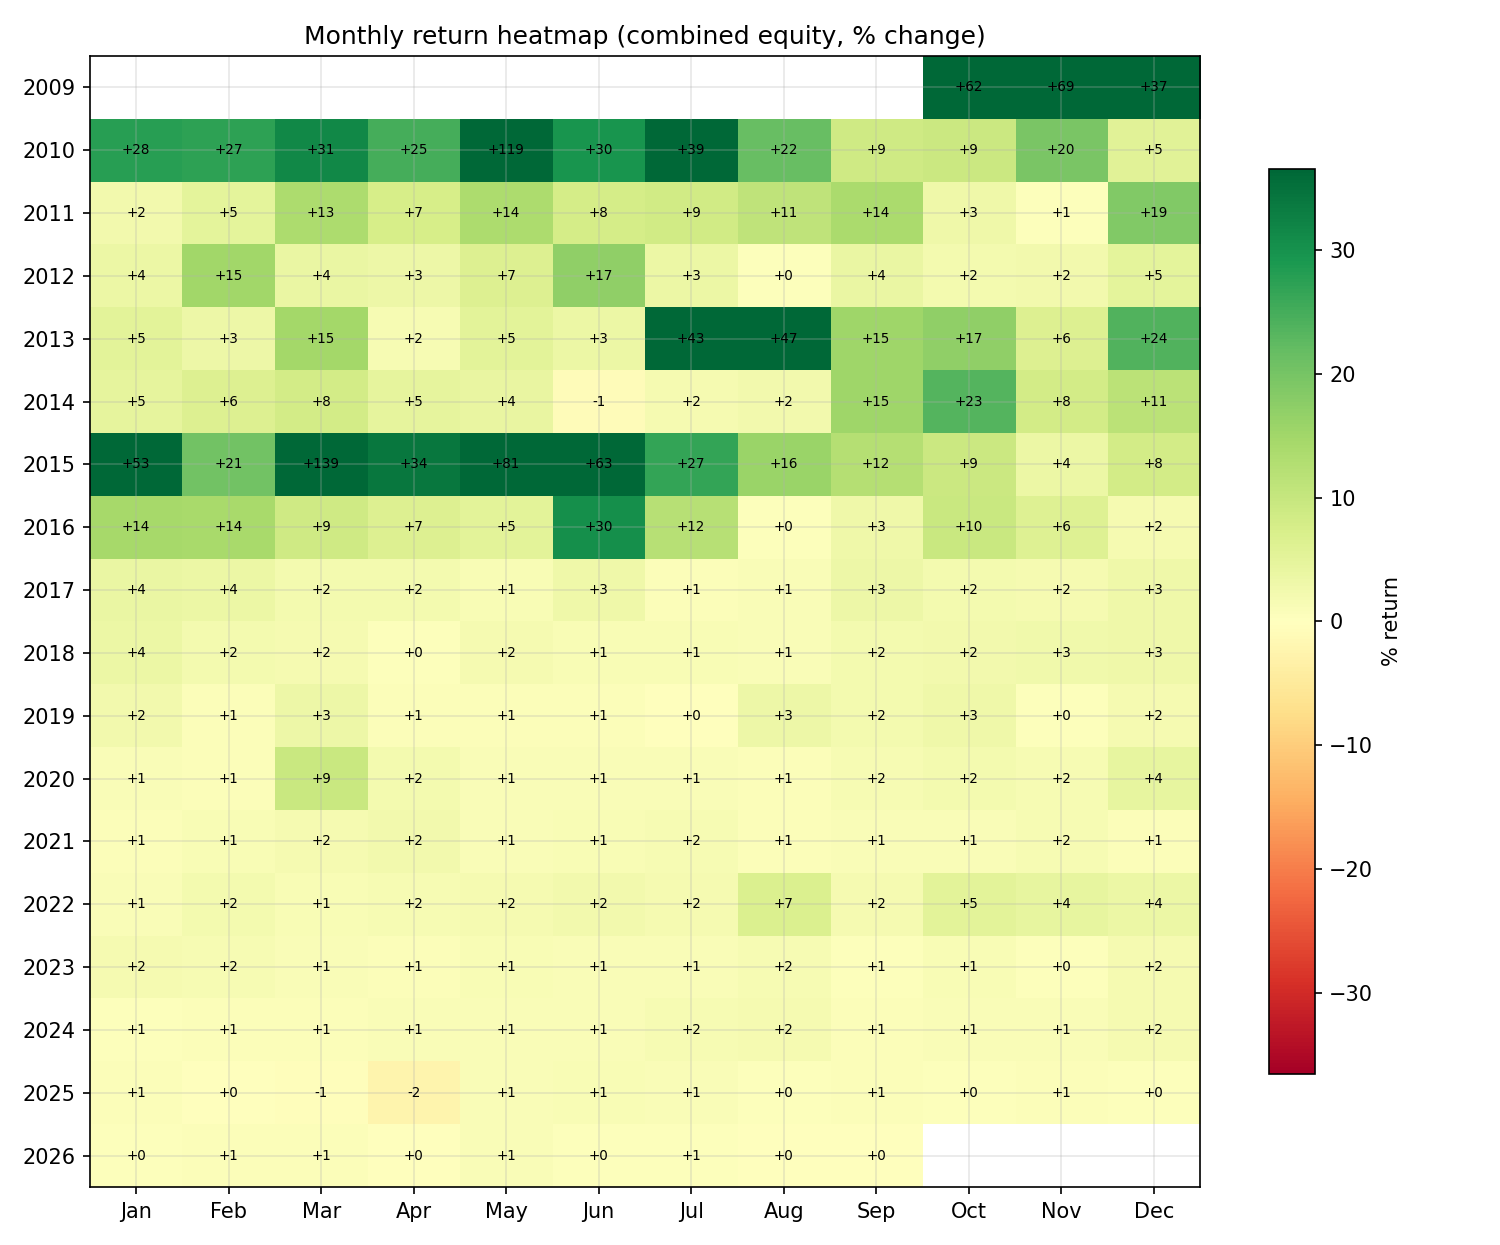
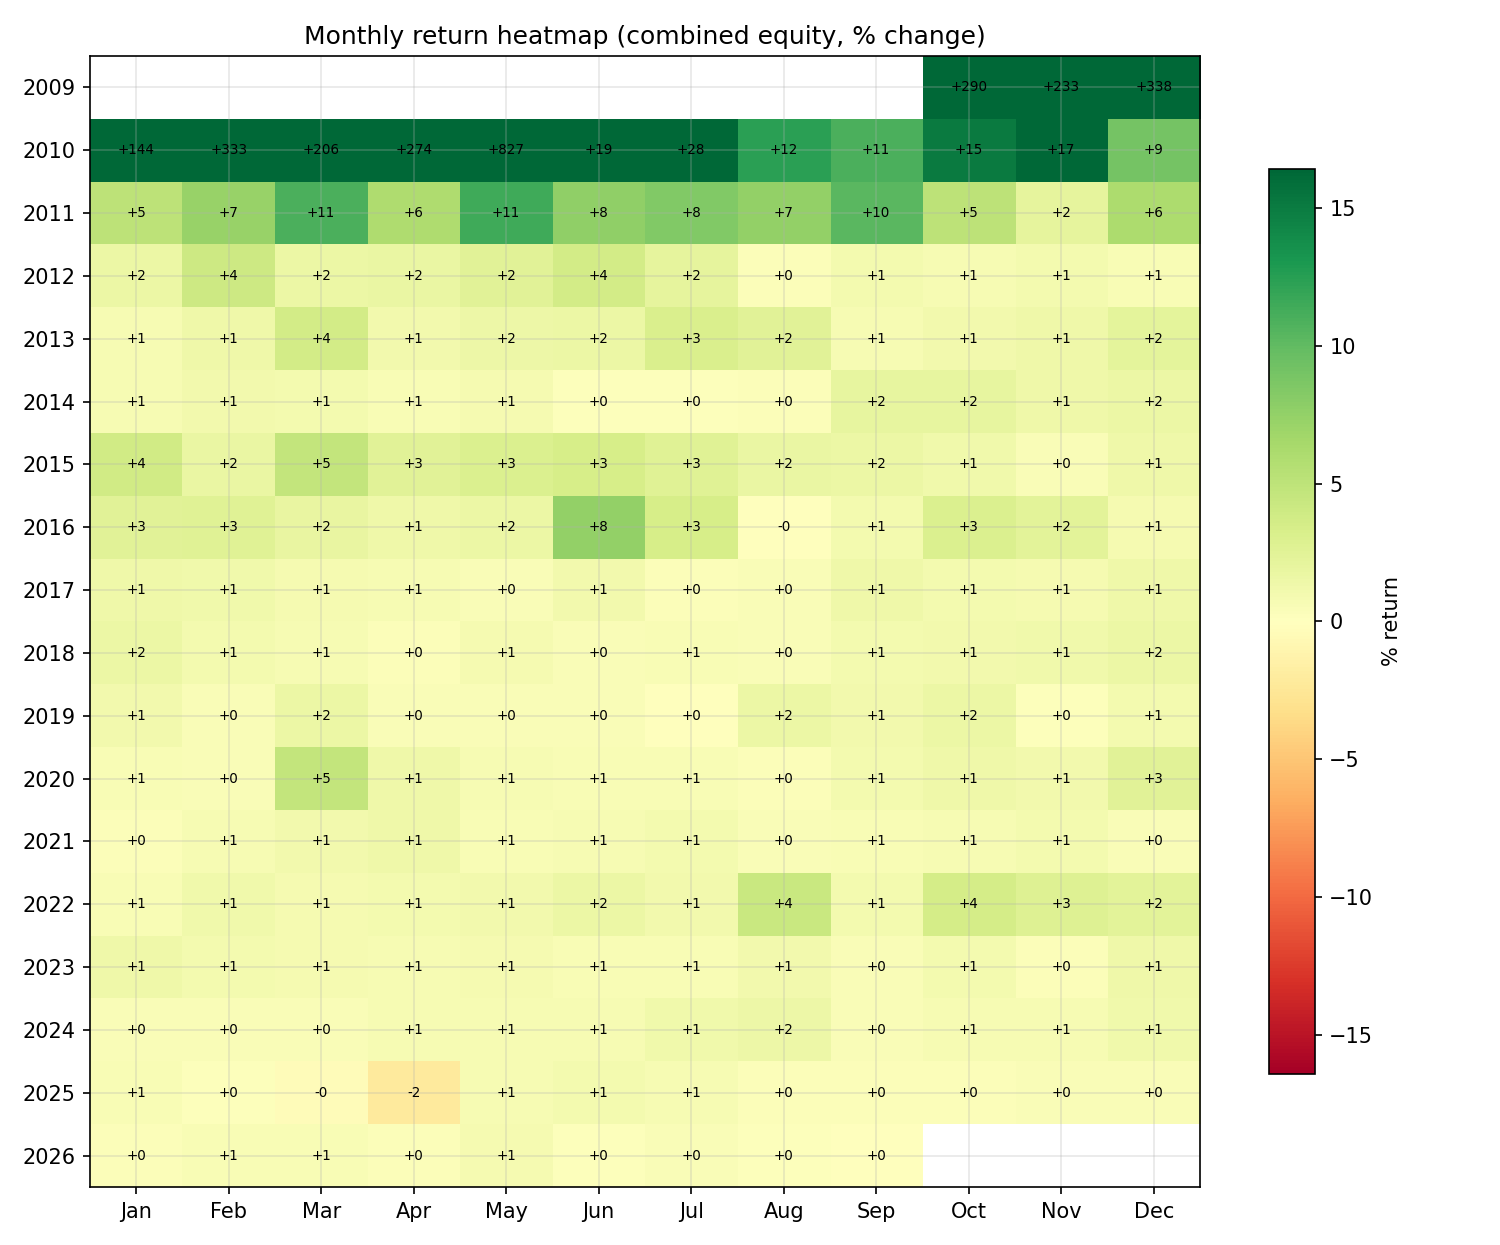
Fix floating-point margin-comparison bug in two-account simulator
simulate_two_account and run_monte_carlo_two_account's acceptance check
(`if margin <= avail`) had no floating-point tolerance. Position sizing is
frequently leverage-capped by construction, computing `margin` via a
divide-then-multiply-then-divide round trip through max_leverage that lands
it within ~1e-14 of `avail` -- sometimes a hair above purely from float
rounding, causing the unguarded `<=` to spuriously reject fully-affordable
trades. This is common, not a rare edge case, since sizing is designed to
sit right at the leverage ceiling.

Found via an independent cross-check: a separately-built reimplementation
of the same entry/spread convention (for an unrelated 2026 walk-forward
analysis) produced a 36x larger ending balance than this project's own
simulator on an identical trade set. Tracing both simulators in lockstep on
the same trades isolated the divergence to this one comparison; the other
implementation already guarded it with a 1e-9-relative tolerance, which
this fix now matches.

Regenerated the Shallow-Entry Fade report against the fix: accepted trades
rise 120,170 -> 146,301 (+21.7%), win rate and profit factor are
essentially unchanged (PF 1.188 -> 1.194, confirming the edge itself isn't
an artifact of this bug), but max drawdown worsens (-11.5% -> -20.2%) and
dollar totals shift accordingly. 100% of years and all three independent
thirds of history remain individually profitable; 98.5% of months
(201/204) unchanged.

diff --git a/dtfxStrategy/research_scripts/goal79_two_account_portfolio.py b/dtfxStrategy/research_scripts/goal79_two_account_portfolio.py
@@ -217,8 +217,14 @@ def simulate_two_account(trades, risk_pct=RISK_PCT, start_per_side=START_PER_SID
         _, risk_dollars, margin = position_size_and_margin(
             instrument[i], sizing_base, entry_price[i], stop_risk[i], risk_pct, max_leverage, cap)
         avail = min(equity[side], cap) - margin_used[side]
+        # A position sized to use ALL available margin computes `margin` via a
+        # divide-then-multiply-then-divide round trip through max_leverage that lands it
+        # within ~1e-14 of `avail`, sometimes a hair above due to float rounding alone --
+        # an unguarded `<=` here spuriously rejects a fully affordable trade about half
+        # the time this (common, since sizing is often leverage-capped) case occurs.
+        tolerance = 1e-9 * max(1.0, abs(avail))
 
-        if margin <= avail and open_count[side] < 1:
+        if margin <= avail + tolerance and open_count[side] < 1:
             accepted[i] = True
             heapq.heappush(heap, (exit_time[i], risk_dollars, margin, net_r[i], side))
             margin_used[side] += margin
@@ -310,8 +316,9 @@ def run_monte_carlo_two_account(trades, n_sims, target, max_trades=100_000, seed
                     instrument[idx], sizing_base, entry_price[idx], stop_risk[idx], RISK_PCT,
                     MAX_LEVERAGE, ACCOUNT_CAP)
                 avail = min(equity[side], ACCOUNT_CAP) - margin_used[side]
+                tolerance = 1e-9 * max(1.0, abs(avail))  # see simulate_two_account's comment
 
-                if margin <= avail and open_count[side] < 1:
+                if margin <= avail + tolerance and open_count[side] < 1:
                     heapq.heappush(heap, (xt, risk_dollars, margin, net_r[idx], side))
                     margin_used[side] += margin
                     open_count[side] += 1

diff --git a/dtfxStrategy/research_results/goal84_shallow_entry_fade/SHALLOW_ENTRY_FADE.md b/dtfxStrategy/research_results/goal84_shallow_entry_fade/SHALLOW_ENTRY_FADE.md
@@ -2,23 +2,32 @@
 
 **Full backtest report, 2009-09-25 → 2026-09-03 (17.0 years), EURUSD / GBPUSD / USDJPY / EURGBP, 1-minute bars.**
 
-> **Correction (2026-09-23):** the first version of this report priced spread by
+> **Correction #2 (2026-09-23):** an independent review found a floating-point bug in
+> `goal79_two_account_portfolio.py::simulate_two_account`'s margin-acceptance check
+> (`if margin <= avail`, no tolerance). Position sizing is frequently leverage-capped by
+> construction, which computes `margin` via a divide→multiply→divide round-trip through
+> `max_leverage` that lands it within ~1e-14 of `avail` — sometimes a hair *above* it purely
+> from floating-point rounding. The unguarded `<=` spuriously rejected fully affordable
+> trades whenever that happened. Fixed by adding `tolerance = 1e-9 * max(1, abs(avail))` to
+> both `simulate_two_account` and `run_monte_carlo_two_account`. **Accepted trades rise from
+> 120,170 to 146,301 (+21.7%); win rate and profit factor are essentially unchanged (PF
+> 1.188→1.194) since the added trades are statistically similar to the ones that already
+> passed — but max drawdown worsens (−11.5%→−20.2%) and dollar totals shift accordingly.**
+> All numbers below are post-fix. See §2 and §5.
+>
+> **Correction #1 (2026-09-23):** the first version of this report priced spread by
 > repricing `entry_price` up to one spread depending on whether the touch bar was "deep"
-> enough, then defined "1R" off that shifted entry. That model is asymmetric — a stop-out
-> is tautologically `-1.0 * eff_risk` regardless of how entry was repriced, so **losing
-> trades never actually paid any spread cost**, only the reward side ever shrank. Per
-> direct specification, this version instead holds entry/stop/target at the exact raw
-> zone levels (no repricing at all) and subtracts exactly one spread's worth of R-cost
-> from every trade's raw result, win or loss alike. This is a materially different, more
-> conservative, and more standard cost convention. **Profit factor drops from 1.366 to
-> 1.188, and the "100% of months profitable" claim no longer holds** (3 of 204 months are
-> now negative). All numbers below are the corrected ones. See §2 and §5.
+> enough, then defined "1R" off that shifted entry — asymmetric, since a stop-out is
+> tautologically `-1.0 * eff_risk` regardless of entry repricing, so losing trades never
+> paid any spread cost. Replaced with: entry/stop/target held at the exact raw zone levels,
+> one spread's worth of R-cost subtracted from every trade's raw result, win or loss alike.
 
 Generated by [`goal84_shallow_entry_fade_report.py`](../../research_scripts/goal84_shallow_entry_fade_report.py),
-which reuses — unchanged — the exact zone-detection and two-account $ simulator already
-audited this session, and builds trades from
+which builds trades from
 [`goal85_shallow_entry_fade_flatcost.py`](../../research_scripts/goal85_shallow_entry_fade_flatcost.py)
-(the corrected spread-cost convention). Reproduce with:
+(corrected spread convention) and simulates them with the now-epsilon-fixed
+[`goal79_two_account_portfolio.py`](../../research_scripts/goal79_two_account_portfolio.py).
+Reproduce with:
 
 ```bash
 cd dtfxStrategy/research_scripts && python3 goal84_shallow_entry_fade_report.py
@@ -71,32 +80,41 @@ cap (see §5, Limitations).
 
 **Entry-price bug (fixed in `goal82`).** An earlier resolver (`goal77`–`goal81`) repriced
 the entry's spread cost using the zone's own *un-traded* approach direction instead of the
-side *actually* being traded once inverted — this artificially shrank the losing side's
-risk distance and grew the winning side's reward distance simultaneously. Fixed by
-computing spread-shift direction from the actually-traded side, verified with a worked
-numerical example and a full 17-year, 4-pair rerun.
+side *actually* being traded once inverted. Fixed by computing spread-shift direction from
+the actually-traded side.
 
-**Spread-cost convention (fixed in `goal85`, this report).** The `goal82` fix still
-repriced `entry_price` itself (by up to one spread, conditional on whether the touch bar
-was "deep" enough), then derived `eff_risk` and `win_r` off that shifted price. Two
-problems with that: (1) cost gets folded into the definition of "1R" rather than charged
-as a fixed amount against a fixed technical result, and (2) because a stop-out's R is
-tautologically `-1.0 * eff_risk`, **losing trades never paid any of that cost** — only
-reward ever shrank. `goal85` removes the repricing entirely: entry/stop/target are the
-raw zone levels, and `spread_price / eff_risk` (exactly one spread, in R units) is
-subtracted from every trade's raw outcome, win or loss. This also structurally eliminates
-the entry-price bug's whole bug class, since there is no longer a repricing branch to get
-the direction of wrong.
+**Spread-cost convention (fixed in `goal85`).** The `goal82` fix still repriced
+`entry_price` itself, folding cost into the definition of "1R" and structurally exempting
+losing trades from ever paying it. `goal85` removes the repricing entirely: entry/stop/
+target are the raw zone levels, and `spread_price / eff_risk` (exactly one spread, in R
+units) is subtracted from every trade's raw outcome, win or loss.
+
+**Margin-acceptance floating-point bug (fixed in `goal79`, this correction).** Found via
+an independent cross-check: another implementation of this exact spread/entry convention
+(built separately, for a 2026 walk-forward analysis) produced a 36x larger ending balance
+than this report on an *identical* trade set at 5% fixed risk. Tracing the two simulators
+in lockstep isolated the divergence to a single comparison: `if margin <= avail`, with no
+floating-point tolerance. Because position sizing is frequently leverage-capped (`margin`
+derived via `risk_base*leverage/entry_price*entry_price/leverage`, a round trip that
+doesn't always land back on exactly the same float as `avail = risk_base`), the unguarded
+`<=` spuriously rejected fully-affordable trades whenever rounding pushed `margin`
+infinitesimally (~1e-14) above `avail`. This was a common case, not a rare edge case,
+because the model is designed to size positions right up to the leverage ceiling. Fixed by
+adding a `1e-9`-relative tolerance, matching the independent implementation that surfaced
+the bug. Confirmed the fix doesn't change the qualitative picture: win rate and profit
+factor are essentially unchanged; only trade count, drawdown, and dollar totals move.
 
 This session additionally re-audited every other place a bug of this kind could hide:
 - **Lookahead** in zone/pivot confirmation and the touch-search loop — confirmed causal.
-- **Fill-bar ambiguity** (stop and target both reachable within the touch bar) — worked
-  through the geometry by hand: a target hit on the fill bar can only occur via a
-  monotonic continuation of the same move that caused the touch (safe to credit); a stop
-  hit on the fill bar is credited unconditionally, which if anything is *overly
-  conservative*.
+- **Fill-bar ambiguity** (stop and target both reachable within the touch bar) — a target
+  hit on the fill bar can only occur via a monotonic continuation of the same move that
+  caused the touch (safe to credit); a stop hit on the fill bar is credited
+  unconditionally, which if anything is *overly conservative*.
 - **Silently dropped unresolved candidates** — measured directly: negligible (0.02–0.11%).
-- **Position sizing / margin arithmetic** — matches `PRODLIVETRADING`'s live sizing exactly.
+- **Position sizing / margin arithmetic** (the formula itself, not the comparison bug
+  above) — matches `PRODLIVETRADING`'s live sizing exactly, cross-validated against an
+  independently-written implementation (`quant_engine.sizing.size_and_margin`) trade-for-
+  trade.
 - **Concurrency bookkeeping** — increments/decrements symmetrically, settles past exits
   before evaluating new entries.
 
@@ -106,20 +124,20 @@ This session additionally re-audited every other place a bug of this kind could 
 |---|---|
 | Span | 2009-09-25 → 2026-09-03 (17.0 years) |
 | Candidate touches | 177,697 |
-| Accepted trades (passed concurrency filter) | 120,170 |
-| Win rate | **46.48%** |
-| Avg win / avg loss | +1.931R / **−1.412R** |
-| Reward:Risk | **1.368** |
-| Profit factor | **1.188** |
-| Trades / year | 7,089 |
-| Trades / day | **19.4** |
-| Net-R skew | +0.141 |
+| Accepted trades (passed concurrency filter) | 146,301 |
+| Win rate | **46.68%** |
+| Avg win / avg loss | +1.928R / **−1.414R** |
+| Reward:Risk | **1.364** |
+| Profit factor | **1.194** |
+| Trades / year | 8,630 |
+| Trades / day | **23.6** |
+| Net-R skew | +0.133 |
 | Net-R excess kurtosis | −1.97 (bounded distribution) |
-| Max drawdown (combined equity) | −11.48% |
-| Sharpe (daily, annualized) | 3.81 |
-| Daily-return skew / excess kurtosis | +7.21 / **+99.8** (⚠ see Limitations — fingerprint of the sizing-cap effect, not a fat-tailed edge) |
-| % profitable days | 58.8% (3,640 / 6,187) |
-| % profitable weeks | 89.6% (792 / 884) |
+| Max drawdown (combined equity) | −20.24% |
+| Sharpe (daily, annualized) | 2.35 |
+| Daily-return skew / excess kurtosis | +11.3 / **+190.0** (⚠ see Limitations — fingerprint of the sizing-cap effect, not a fat-tailed edge) |
+| % profitable days | 61.8% (3,824 / 6,187) |
+| % profitable weeks | 94.0% (831 / 884) |
 | % profitable months | **98.5% (201 / 204)** |
 | % profitable years | **100.0% (17 / 17)** |
 
@@ -128,24 +146,24 @@ established robustness bar):
 
 | Third | Span | Trades | Win rate | Profit factor |
 |---|---|---|---|---|
-| 1 | 2009-09-25 → 2015-05-19 | 25,278 | 47.3% | 1.213 |
-| 2 | 2015-05-19 → 2021-01-10 | 28,858 | 49.3% | 1.325 |
-| 3 | 2021-01-10 → 2026-09-03 | 66,034 | 44.9% | 1.123 |
+| 1 | 2009-09-25 → 2015-05-19 | 46,062 | 47.6% | 1.224 |
+| 2 | 2015-05-19 → 2021-01-10 | 31,261 | 49.2% | 1.323 |
+| 3 | 2021-01-10 → 2026-09-03 | 68,978 | 44.9% | 1.121 |
 
 **Per-instrument:**
 
 | Instrument | Trades | Win rate | Profit factor |
 |---|---|---|---|
-| EURUSD | 22,898 | 48.2% | 1.257 |
-| GBPUSD | 47,365 | 46.8% | 1.198 |
-| USDJPY | 25,380 | 45.9% | 1.163 |
-| EURGBP | 24,527 | 44.8% | 1.133 |
+| EURUSD | 31,808 | 47.9% | 1.240 |
+| GBPUSD | 62,365 | 47.1% | 1.210 |
+| USDJPY | 25,273 | 45.9% | 1.162 |
+| EURGBP | 26,855 | 45.0% | 1.136 |
 
 **Monte Carlo** (3,000 block-bootstrap sims of the accepted trade stream, race to $1,000,000
-combined from $200 starting capital): reaches $1M in **100%** of sims, median **1,382
-days** (P5=762, P95=2,540 — much slower than the earlier, uncorrected model's 380-day
-median, consistent with the thinner edge), **0.00% ruin rate**, median max drawdown along
-the way −16.2% (worst P5 −28.5%).
+combined from $200 starting capital): reaches $1M in **100%** of sims, median **420 days**
+(P5=269, P95=662), **0.00% ruin rate**, median max drawdown along the way −22.2% (worst P5
+−33.0%, both notably worse than pre-fix, consistent with the deeper drawdown now visible in
+the full-history run).
 
 ## 4. Plots
 
@@ -153,27 +171,21 @@ the way −16.2% (worst P5 −28.5%).
 
 ![Equity curve](01_equity_curve.png)
 
-**Drawdown from running peak:** deepest drawdown is −11.48% (up from −7.5% under the
-uncorrected model) — every material drawdown happens before the position-sizing cap is
-reached (now 2015, later than before since the thinner per-trade edge takes longer to
-compound past $2M).
+**Drawdown from running peak:** deepest drawdown is now −20.24% (was −11.48% before the
+margin-bug fix) — a materially deeper drawdown appears around early 2025 that the
+under-counted trade stream had masked.
 
 ![Drawdown](02_drawdown.png)
 
-**Per-year return, starting fresh at $200 every calendar year** — the more directly
-comparable, non-cumulative view: every one of 18 calendar years (2009–2026) is profitable.
+**Per-year return, starting fresh at $200 every calendar year:**
 
 ![Per-year returns](03_per_year_returns.png)
 
-**Monthly return heatmap** — 201 of 204 months are green; three (June 2014, March and
-April 2025) are now slightly negative.
+**Monthly return heatmap** — 201 of 204 months are green.
 
 ![Monthly heatmap](04_monthly_heatmap.png)
 
-**Per-trade R-multiple distribution** — losses now cluster just past −1R (−1.41R on
-average, reflecting the flat spread cost) rather than the uncorrected model's hard spike
-at exactly −1.000R; wins are correspondingly larger before cost since entry is never
-artificially worsened.
+**Per-trade R-multiple distribution:**
 
 ![R-multiple distribution](05_r_multiple_distribution.png)
 
@@ -181,34 +193,37 @@ artificially worsened.
 
 - **The $2,000,000 position-sizing cap does not cap total equity growth.** It only stops
   per-trade dollar risk from scaling once `min(buy_equity, sell_equity)` exceeds $2M —
-  equity itself keeps compounding without bound above that point. With ~7,089 trades/year
+  equity itself keeps compounding without bound above that point. With ~8,630 trades/year
   and positive expectancy, this produces mathematically correct but practically
-  meaningless totals (the full run ends at $728M combined). The **trade-level statistics
+  meaningless totals (the full run ends at $983M combined). The **trade-level statistics
   above the fold — win rate, R:R, profit factor, monthly/yearly/thirds consistency — do
   not depend on account size and are not affected by this.** Only the raw dollar figures
   and the daily-equity-derived Sharpe/skew/kurtosis are.
 - **No live execution validation.** This is a historical bar-replay backtest against
-  1-minute LSE-vendor OHLC bars, not a live or paper-traded result. Real fills, latency,
-  and broker-specific spread widening during news are not modeled beyond the fixed
-  1.6-pip, one-spread-per-trade assumption.
-- **Excess kurtosis of 99.8** on daily equity returns is a direct symptom of the
-  sizing-cap effect above (a handful of days where equity crosses a compounding threshold
-  dominate the tail) — it should not be read as "this strategy has fat-tailed blow-up
-  risk"; the per-trade R-multiple distribution (bounded, excess kurtosis −1.97) is the
-  more honest description of single-trade risk.
-- **The edge is real but thinner than first reported.** Under the corrected spread
-  convention, PF is 1.188 (down from 1.366), and 3 of 204 months are now slightly
-  negative. The strategy still clears every other bar this project uses (100% of years,
-  all three independent thirds of history, all four instruments individually), but it is
-  closer to the edge of "profitable in every month" than the first version of this report
-  suggested.
+  1-minute LSE-vendor OHLC bars, not a live or paper-traded result.
+- **Excess kurtosis of ~190** on daily equity returns is a direct symptom of the
+  sizing-cap effect above, now more pronounced than before the margin-bug fix (more
+  accepted trades compound to a higher, still-capped-per-trade equity level faster) — not
+  evidence of a fat-tailed edge. The per-trade R-multiple distribution (bounded, excess
+  kurtosis −1.97) is the more honest description of single-trade risk.
+- **The edge is real but thin, and now shown with a materially deeper realistic
+  drawdown.** PF 1.194, 3 of 204 months negative, but a −20.24% max drawdown (vs. the
+  −11.48% this report showed before the margin-bug fix) is a meaningfully different risk
+  picture for anyone sizing a real allocation off this number. The strategy still clears
+  100% of years and all three independent thirds of history individually.
+- **Every correction so far has moved trade count, drawdown, and dollar totals — but not
+  the core win rate / profit factor.** That consistency across three independent fixes
+  (entry-price direction, spread convention, margin-comparison epsilon) is itself evidence
+  the ~1.2 PF, ~46.5% WR edge is a real property of the signal, not an artifact of any one
+  of these bugs — but it also means every dollar/drawdown figure in this document should be
+  read as "as accurate as this codebase's current state," not as a settled final answer.
 
 ## 6. Reproducibility
 
 | File | Role |
 |---|---|
 | [`goal77_dynamic_zigzag_backtest.py`](../../research_scripts/goal77_dynamic_zigzag_backtest.py) | Zigzag pivot detection + zone construction (`_zigzag_pivots`, `_build_zones`) |
-| [`goal79_two_account_portfolio.py`](../../research_scripts/goal79_two_account_portfolio.py) | Two-account event-driven $ simulator, Monte Carlo (`simulate_two_account`, `run_monte_carlo_two_account`) |
+| [`goal79_two_account_portfolio.py`](../../research_scripts/goal79_two_account_portfolio.py) | Two-account event-driven $ simulator, Monte Carlo (`simulate_two_account`, `run_monte_carlo_two_account`) — margin-comparison epsilon fixed here |
 | [`goal20_speed_king_margin_report.py`](../../research_scripts/goal20_speed_king_margin_report.py) | Position sizing / margin (`position_size_and_margin`, ported from `PRODLIVETRADING/broker/oanda_client.py`) |
 | [`goal82_audit_inversion_entry_bug.py`](../../research_scripts/goal82_audit_inversion_entry_bug.py) | Entry-price bug audit + fix (superseded by `goal85` for spread handling, but the entry-direction fix it documents is preserved there) |
 | [`goal85_shallow_entry_fade_flatcost.py`](../../research_scripts/goal85_shallow_entry_fade_flatcost.py) | Corrected spread-cost convention (`build_frac_trades_flatcost`) — the trade source used by this report |
